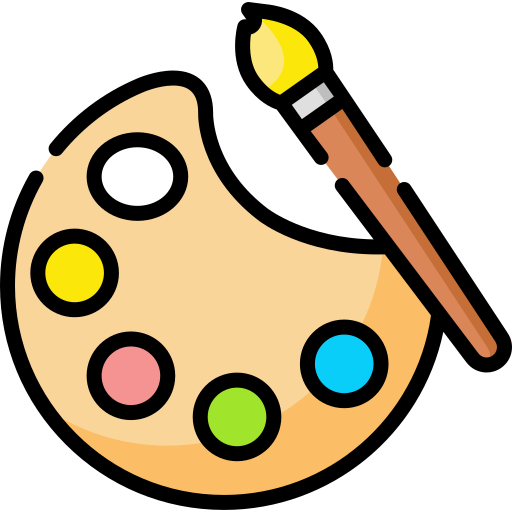
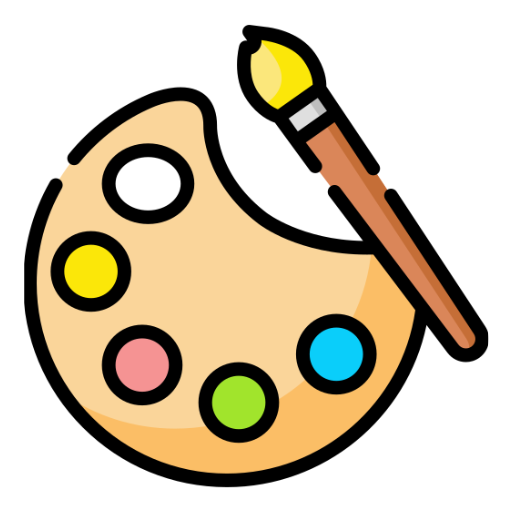
feat: atualiza ícones e cores no manifest para melhorar a aparência da PWA

diff --git a/templates/index.html b/templates/index.html
@@ -9,7 +9,7 @@
   <meta name="apple-mobile-web-app-capable" content="yes">
   <meta name="apple-mobile-web-app-status-bar-style" content="default">
   <meta name="apple-mobile-web-app-title" content="ArteBonitinha">
-  <link rel="apple-touch-icon" href="/static/png/icon-128x128.png">
+  <link rel="apple-touch-icon" href="/static/png/icon-192x192.png">
   <link rel="icon" href="/static/svg/logo.svg">
   <title>Site Bonitinho</title>
   <link rel="stylesheet" href="/static/css/style.css">
